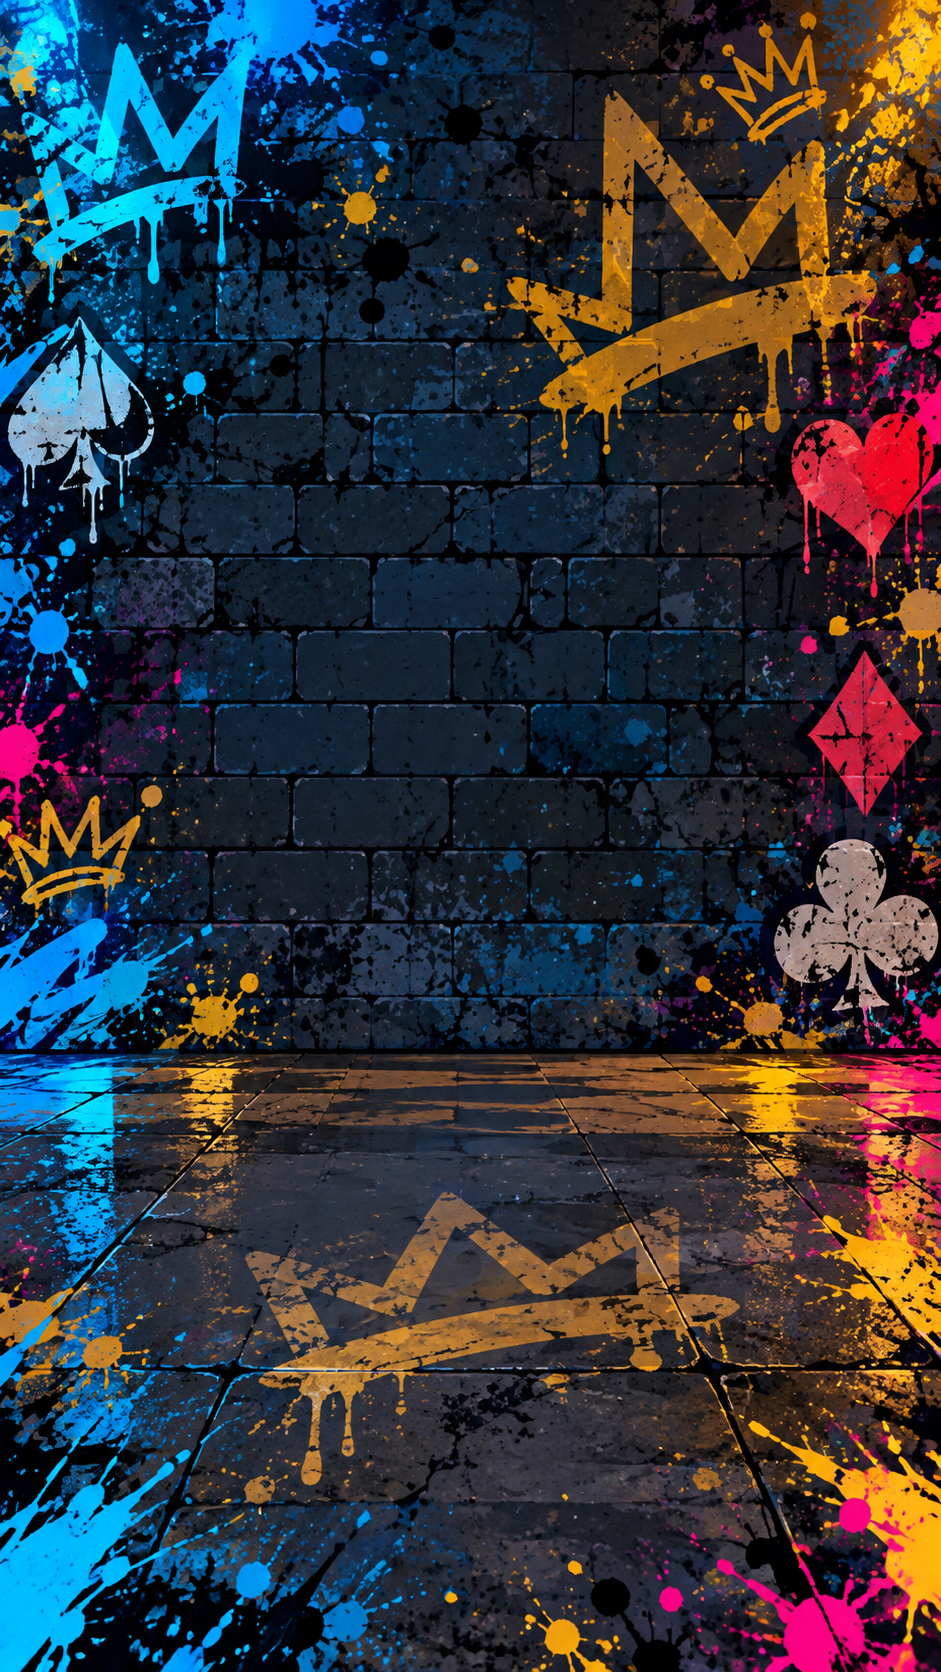
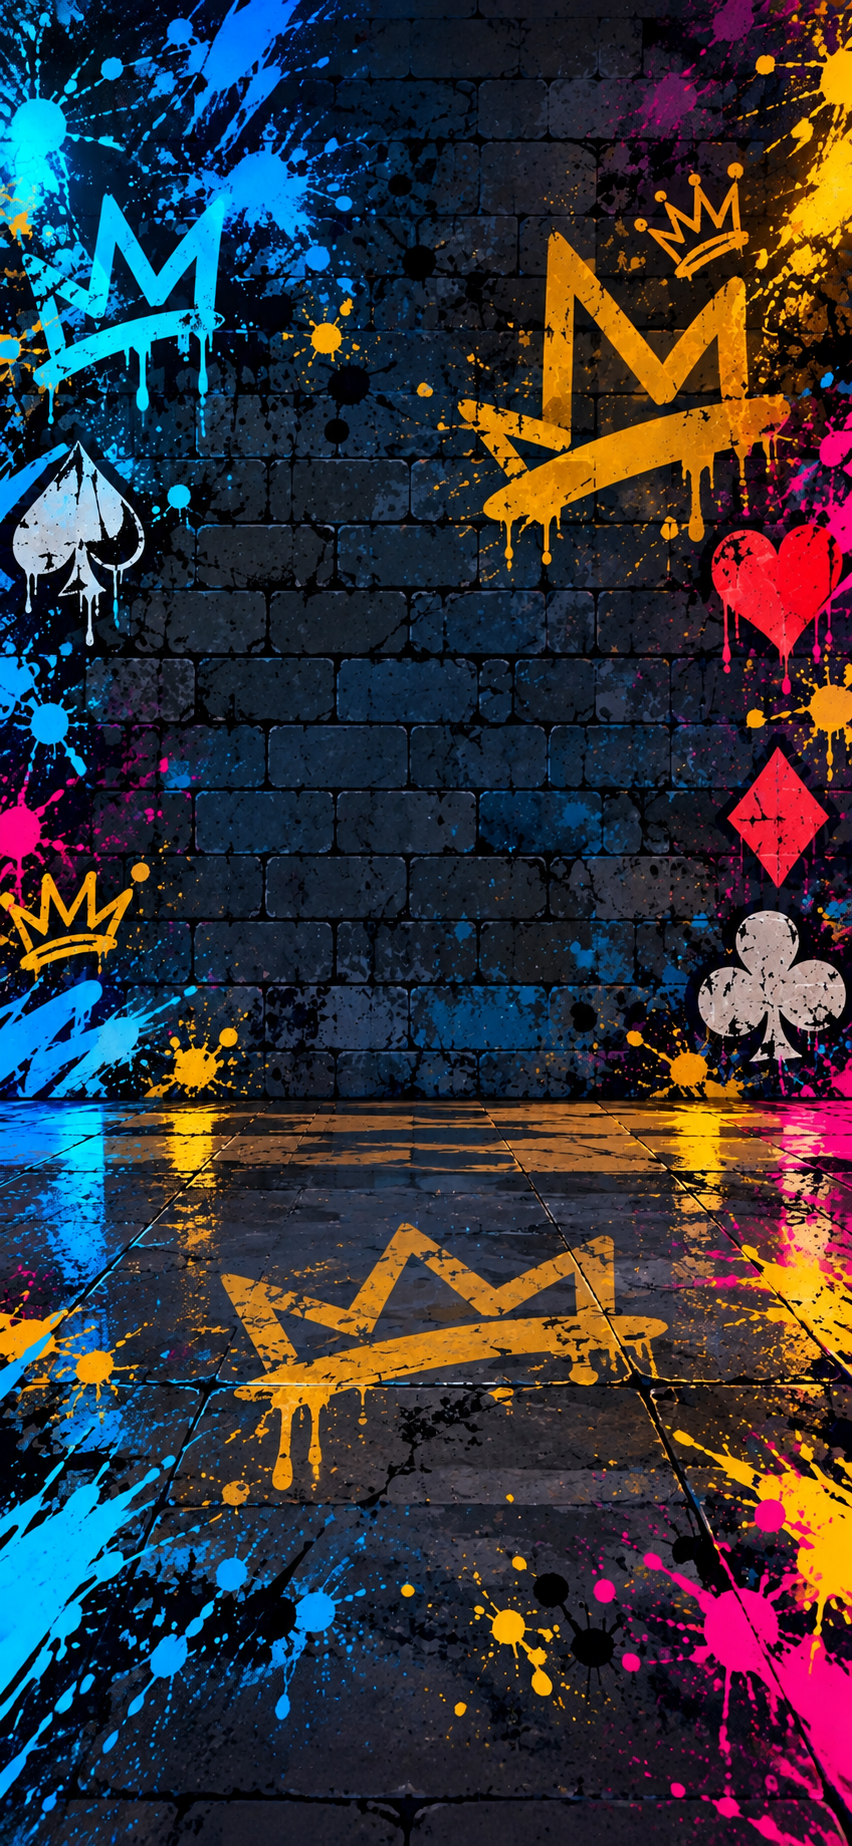
MONZ CARDのプレイ中の背景を全画面用の縦長の絵に
Claude-Session: https://claude.ai/code/session_01MXithgTc5umkveoyZShZHQ

diff --git a/src/scenes/CardPlayScene.ts b/src/scenes/CardPlayScene.ts
@@ -89,7 +89,11 @@ export class CardPlayScene extends Phaser.Scene {
     canvasTextureOnce(this, backImg ? 'card:backimg' : 'card:back', CARD_W, CARD_H, (ctx) => drawCardBack(ctx, backImg));
     this.backKey = backImg ? 'card:backimg' : 'card:back';
     // 背景(企画者の絵。なければ仮の壁)
-    if (this.textures.exists('cardimg:bg')) this.add.image(0, 0, 'cardimg:bg').setOrigin(0, 0).setDisplaySize(W, H);
+    // 2026-11-08 全画面用の 縦長の 絵(852x1846): 横はばに 合わせて 上から(画面が のびても 絵で うまる)
+    if (this.textures.exists('cardimg:bg')) {
+      const bg = this.add.image(0, 0, 'cardimg:bg').setOrigin(0, 0);
+      bg.setScale(Math.max(W / bg.width, H / bg.height));
+    }
     else {
       canvasTextureOnce(this, 'card:table', W, H, (ctx) => drawCardTable(ctx, W, H));
       this.add.image(0, 0, 'card:table').setOrigin(0, 0);

diff --git a/src/ui/cardArt.ts b/src/ui/cardArt.ts
@@ -12,7 +12,7 @@ export const CARD_IMAGES = {
   'cardimg:logo': 'card_logo.webp',
   'cardimg:back': 'card_back.webp',
   'cardimg:deck': 'card_deck.webp',
-  'cardimg:bg': 'card_bg.webp',
+  'cardimg:bg': 'card_bg_v2.webp',
   'cardimg:clearMonz': 'card_clear_monz.webp',
   'cardimg:overMonz': 'card_over_monz.webp',
 } as const;
